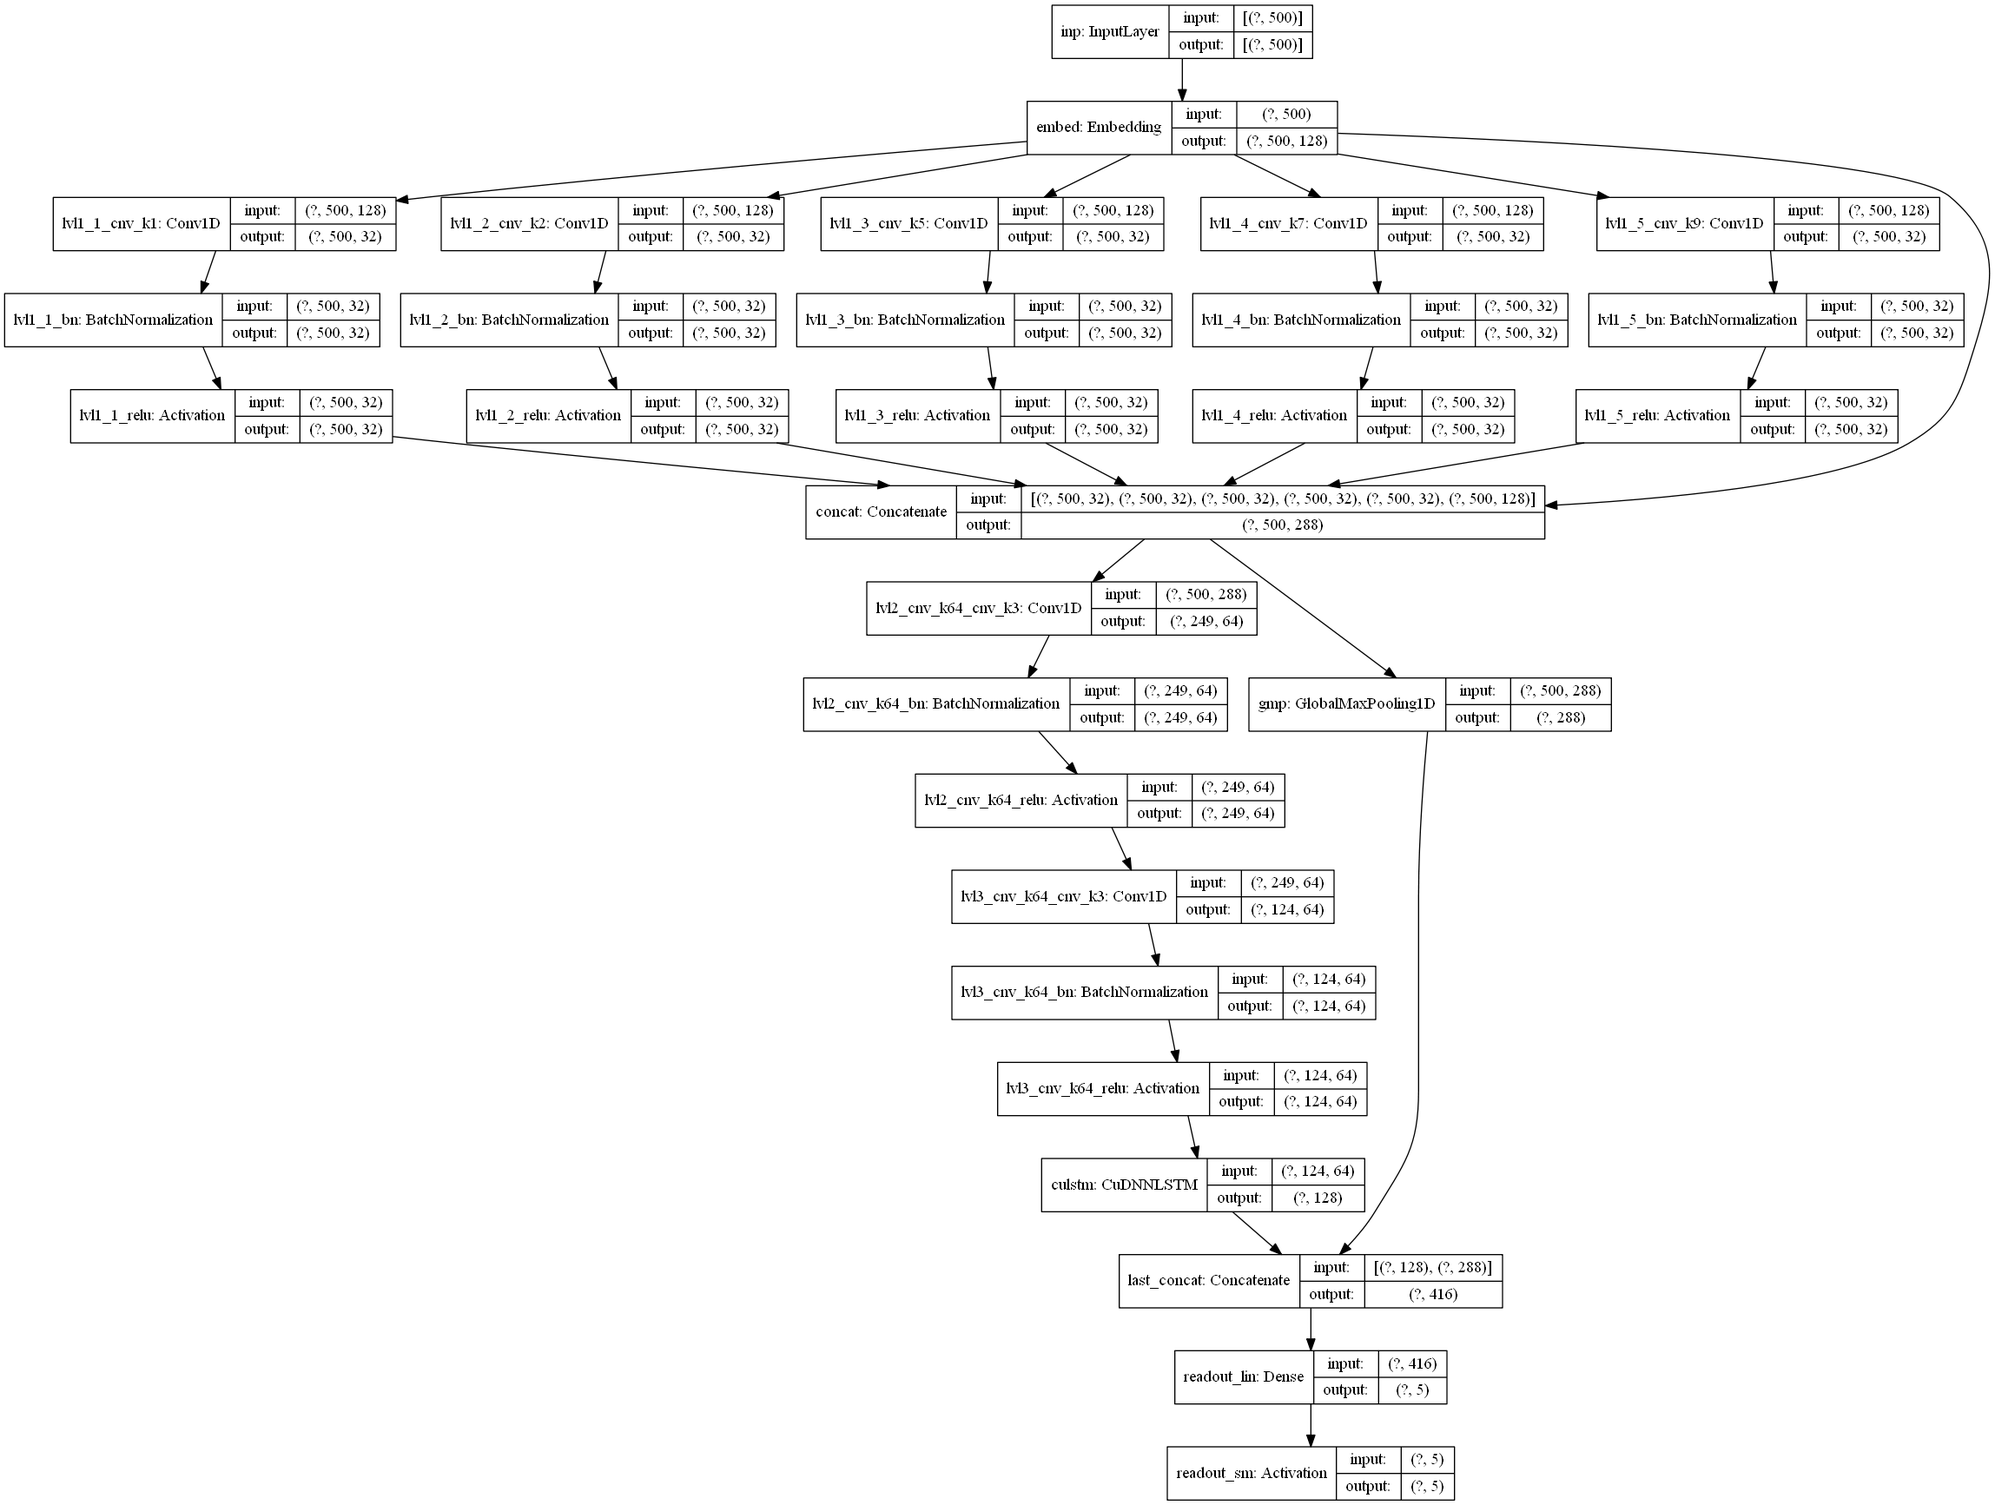
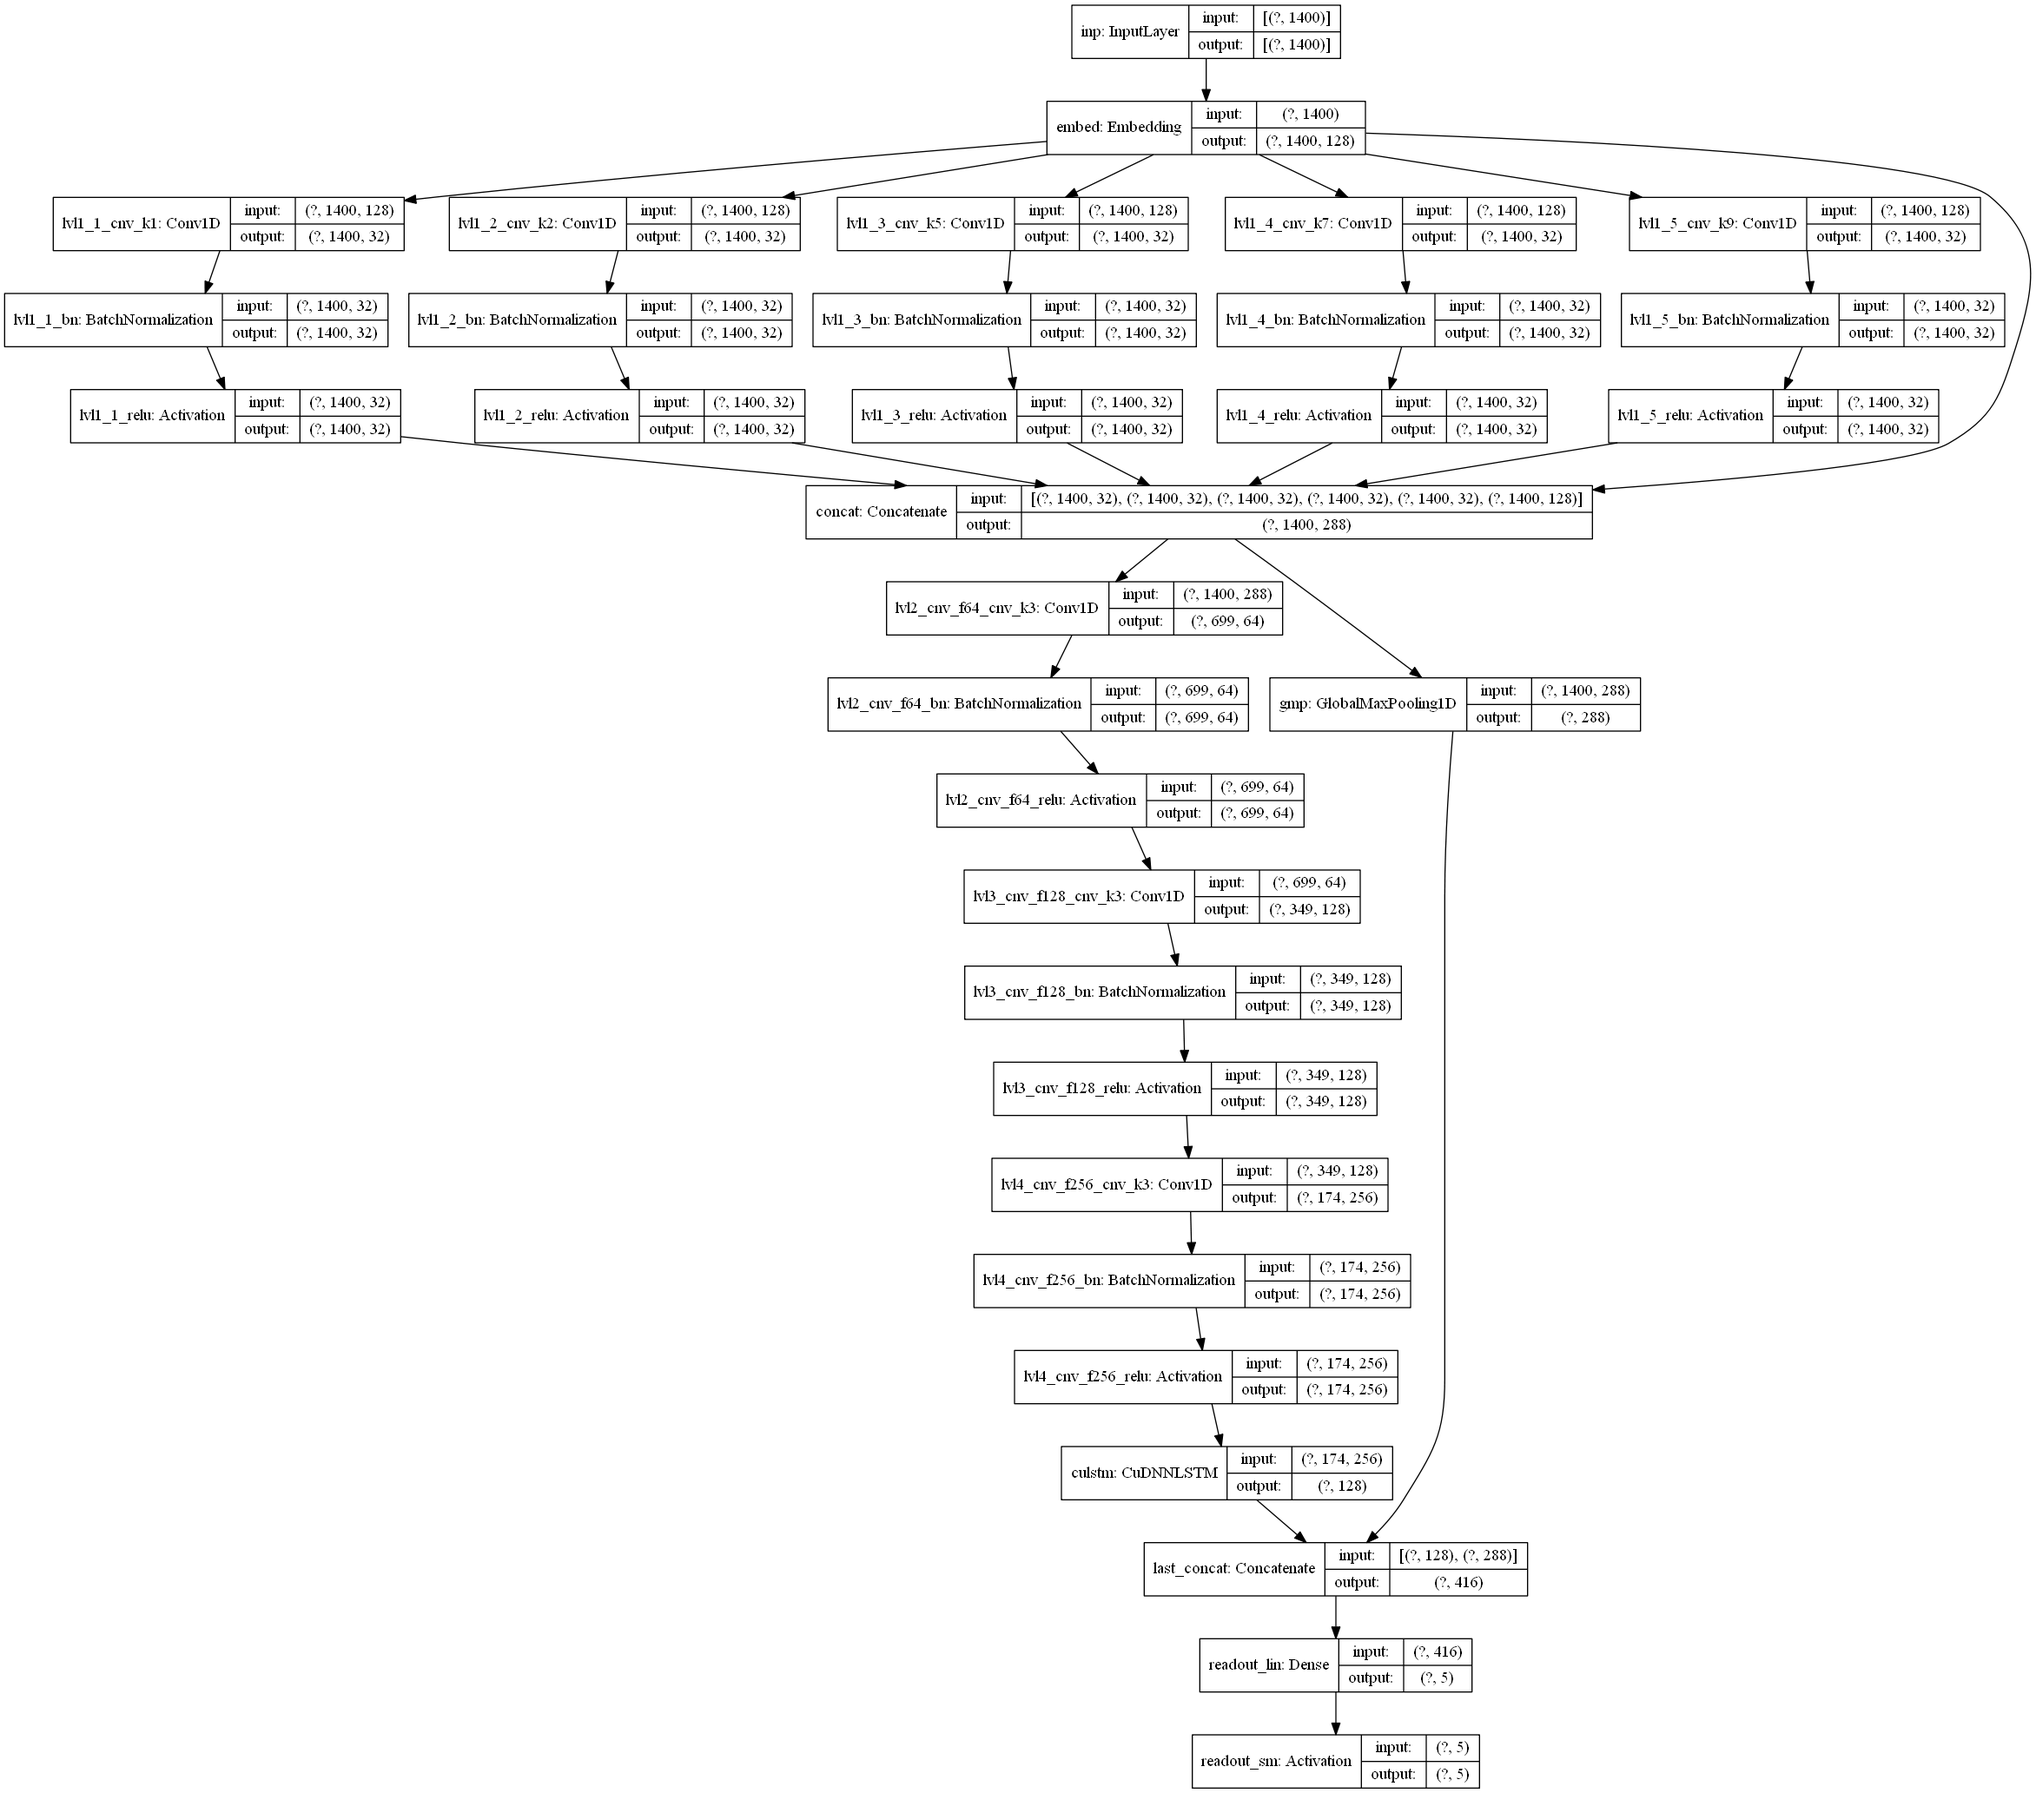
CVs simple model generator

Changed region(s): [[0.0, 0.0, 1.0, 1.0]]

diff --git a/tagger/brain/cv_simple_model_generator.py b/tagger/brain/cv_simple_model_generator.py
@@ -56,9 +56,12 @@ def get_model(input_shape,
   tf_x_gmp = tf.keras.layers.GlobalMaxPooling1D(name='gmp')(tf_x)
   
   # phase 2 conv
-  tf_x = conv1d(tf_x, 64, k=3, s=2, bn=bn, act=act, name='lvl2_cnv_k64')  
-  tf_x = conv1d(tf_x, 64, k=3, s=2, bn=bn, act=act, name='lvl3_cnv_k64')
-  
+  for i in range(3):
+    level += 1
+    f = 2**(6+i)
+    tf_x = conv1d(tf_x, f=f,  k=3, s=2, bn=bn, act=act, 
+                  name='lvl{}_cnv_f{}'.format(level, f))  
+ 
   tf_x = tf.keras.layers.CuDNNLSTM(128, name='culstm')(tf_x)
   
   tf_x = tf.keras.layers.concatenate([tf_x, tf_x_gmp], name='last_concat')
@@ -77,7 +80,7 @@ def get_model(input_shape,
 
 if __name__ == '__main__':
   import numpy as np
-  m = get_model((500,), n_classes=5, 
+  m = get_model((1400,), n_classes=5, 
                 embeddings=np.random.rand(1000,128),
                 name='test')
   m.summary()
